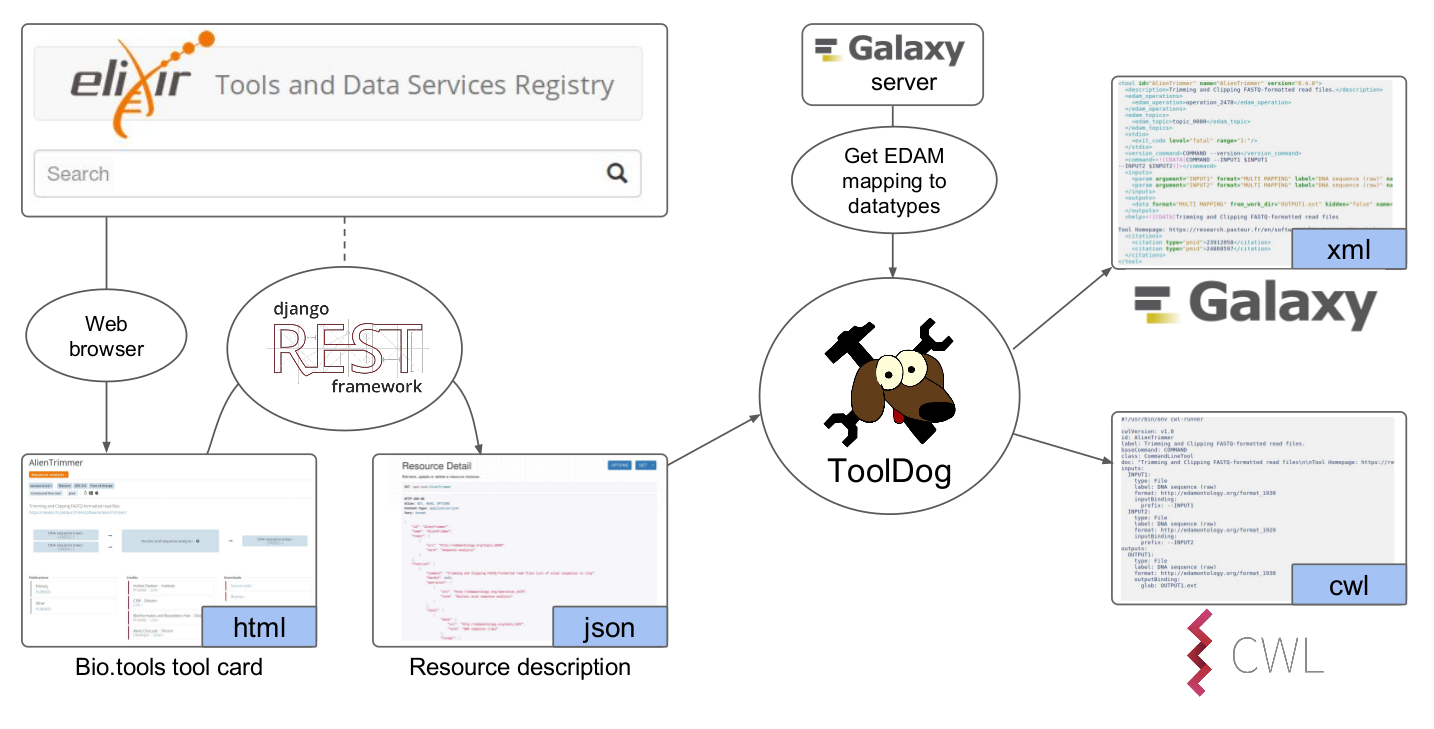
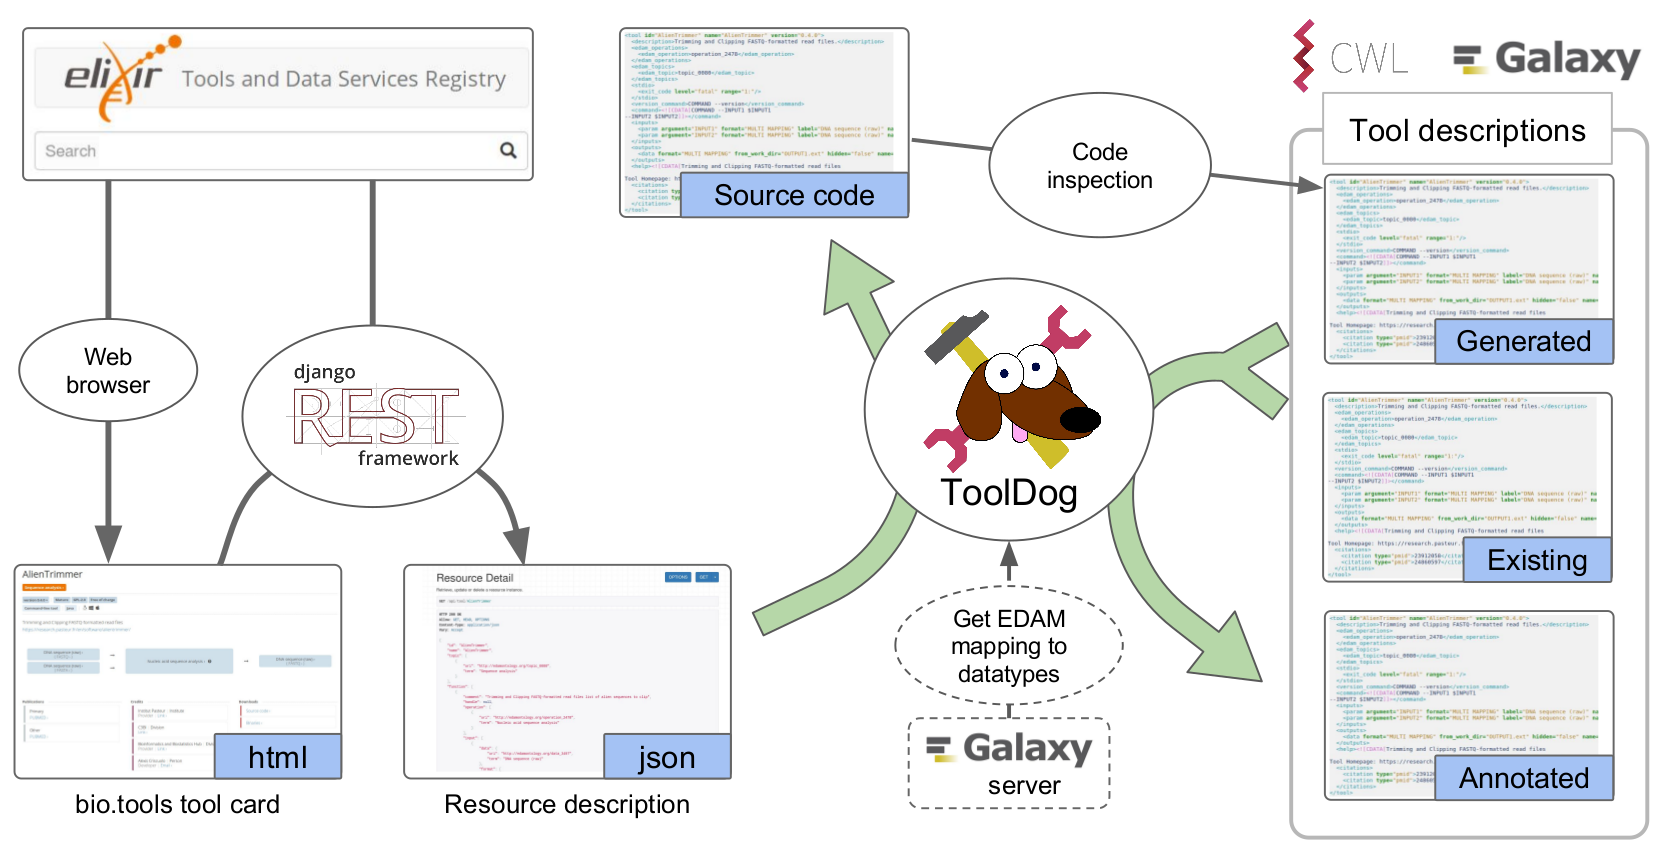
update documentation

Changed region(s): [[0.0, 0.0302, 1.0, 0.9959], [0.3068, 0.0302, 0.3375, 0.0604], [0.0, 0.0302, 0.0307, 0.0604]]

diff --git a/doc/source/how_to_use.rst b/doc/source/how_to_use.rst
@@ -8,7 +8,9 @@ How to use ToolDog ?
 
 ToolDog can either generates a template from a bio.tools entry for Galaxy or CWL but
 also annotates exiting tool descriptors with missing metadata.
-ToolDog supports generation of XML files for Galaxy (`-g/--galaxy`) or CWL (`-c/--cwl`).
+ToolDog supports generation of XML files for Galaxy (`-g/--galaxy`) or CWL tool (`-c/--cwl`).
+It works in two main steps: **(1)** Analysis of the source code when possible (for the moment, only
+support Python code using argparse), **(2)** Addition of metadata to the tool description.
 
 .. Note::
    If you find a bug, have any questions or suggestions, please `create an issue`_ on
@@ -22,22 +24,23 @@ ToolDog supports generation of XML files for Galaxy (`-g/--galaxy`) or CWL (`-c/
 Import from https://bio.tools entry
 ===================================
 
-You can generate a XML for Galaxy from an online bio.tools description using the following command:
+You can generate a XML for Galaxy from an online https://bio.tools description from the identifier
+using the following command:
 
 .. code-block:: bash
 
-    tooldog --galaxy id/version > outfile.xml
+    tooldog -g/--galaxy id > outfile.xml
 
 .. _local_import:
 
 Import from JSON local file
 ===========================
 
-To generate XML from a local file, use the following command:
+To generate XML from a local file downloaded from http://bio.tools, use the following command:
 
 .. code-block:: bash
 
-    tooldog --galaxy file.json > outfile.xml
+    tooldog -g/--galaxy file.json > outfile.xml
 
 
 Annotation of existing files
@@ -48,7 +51,46 @@ is registered on https://bio.tools:
 
 .. code-block:: bash
 
-    tooldog --galaxy id/version --existing_xml your_xml.xml > annotated_xml.xml
+    tooldog -g/--galaxy id --existing_desc your_xml.xml > annotated_xml.xml
 
 .. Note::
     For the moment, only annotation of Galaxy XML is supported.
+
+Advanced options
+================
+
+Please refer to the help section (``tooldog -h``) of ToolDog to see the full list of options.
+
+Run parts independently
+-----------------------
+
+You can decide to run both parts of ToolDog in an independant manner using ``tooldog -g id --analyse``
+and ``tooldog -g id --annotate`` options. 
+
+Use your own settings and local files
+-------------------------------------
+
+ToolDog offers the possibility to use your own settings for most of the step of the generation.
+
+Options for source code analysis
+""""""""""""""""""""""""""""""""
+
+- ``--source_language``: specify the language of your source code.
+- ``--source_code``: specify the path to your source code directory.
+
+.. Warning::
+    For the moment, only analysis of Python code is available
+
+Options for tool description annotation
+"""""""""""""""""""""""""""""""""""""""
+
+- ``--inout_biotools``: select this option to also add inputs and outputs found on the https://bio.tools description to your Galaxy XML or CWL tool description.
+
+Options specific to Galaxy XML generation
+"""""""""""""""""""""""""""""""""""""""""
+
+The options below are used for the mapping between EDAM formats and data to Galaxy datatypes. As some Galaxy instances sometimes have their own defined datatypes, you can here specify the url:
+
+- ``--galaxy_url``: URL of the Galaxy instance (default is https://usegalaxy.org)
+- ``--edam_url``: URL or local path to EDAM.owl (default is http://edamontology.org/EDAM.owl)
+- ``--mapping_file``: this is a JSON file generated by ToolDog that you can keep once you have performed your own mapping.

diff --git a/doc/source/references.rst b/doc/source/references.rst
@@ -6,6 +6,29 @@
 References
 **********
 
-* Hervé Ménager, Matúš Kalaš, Kristoffer Rapacki and Jon Ison. Using registries to integrate bioinformatics tools and services into workbench environments. International Journal on Software Tools for Technology Transfer (2016) doi: `10.1007/s10009-015-0392-z`_
+Articles
+========
+
+- Hervé Ménager, Matúš Kalaš, Kristoffer Rapacki and Jon Ison. Using registries to integrate bioinformatics tools and services into workbench environments. International Journal on Software Tools for Technology Transfer (2016) doi: `10.1007/s10009-015-0392-z`_
 
 .. _10.1007/s10009-015-0392-z: http://link.springer.com/article/10.1007/s10009-015-0392-z
+
+Posters and presentations
+=========================
+
+- Hillion KH, Kuzmin I, Peterson H et al. ToolDog – generating tool descriptors from the ELIXIR tool registry [version 1; not peer reviewed]. F1000Research 2017, 6(ISCB Comm J):1194 (**slides**) doi: `10.7490/f1000research.1114473.1`_
+- Hillion KH, Kuzmin I, Peterson H et al. ToolDog – generating tool descriptors from the ELIXIR tool registry [version 1; not peer reviewed]. F1000Research 2017, 6(ISCB Comm J):1193 (**poster**) doi: `10.7490/f1000research.1114472.1`_
+
+.. _10.7490/f1000research.1114473.1: https://f1000research.com/slides/6-1194
+.. _10.7490/f1000research.1114472.1: https://f1000research.com/posters/6-1193
+
+External libraries repositories
+===============================
+
+- `galaxyxml`_ by Eric Rasche
+- `argparse2tool`_ by Eric Rasche and Anton Khodak
+- `python-cwlgen`_ by Hervé Ménager and Kenzo-Hugo Hillion
+
+.. _galaxyxml: https://github.com/erasche/galaxyxml
+.. _argparse2tool: http://github.com/erasche/argparse2tool
+.. _python-cwlgen: http://github.com/common-workflow-language/python-cwlgen

diff --git a/doc/source/installation.rst b/doc/source/installation.rst
@@ -9,12 +9,13 @@ Installation
 Requirements
 ============
 
-ToolDog is built with Python 3.6.0 and uses the following libraries:
+ToolDog is built with Python 3.6.0 and uses the following Python libraries:
 
-- galaxyxml_ (>=0.4.0)
-- cwlgen_ (>=0.1.0)
+- galaxyxml_ (>=0.4.3)
+- cwlgen_ (>=0.2.2)
 - requests (>=2.13.0)
 - rdflib (>=4.2.2)
+- docker (==0.2.1)
 
 .. _galaxyxml: https://github.com/erasche/galaxyxml
 .. _cwlgen: https://github.com/common-workflow-language/python-cwlgen
@@ -36,7 +37,7 @@ Installation procedure
 Pip
 ---
 
-You can use pip to install ToolDog:
+You can use pip to install ToolDog of the latest stable version:
 
 .. code-block:: bash
 
@@ -44,6 +45,10 @@ You can use pip to install ToolDog:
 
 Manually
 --------
+
+.. Note::
+    This is particularly useful when you wish to install a version under development from
+    any branches of the Github repository.
 
 Clone the repository and install ToolDog with the following commands:
 

diff --git a/doc/source/changelog.rst b/doc/source/changelog.rst
@@ -11,6 +11,17 @@ Summary of developments of ToolDog software.
 v0.3
 ====
 
+v0.3.1
+------
+
+* DOI are not fetched when only PMID or PMCID is given on bio.tools through this `API`_
+* Addition of ``--inout_biotools`` to also write inputs and outputs from https://bio.tools in the tool description
+* Namespaces have been added to cwlgen library so more information can be written in the CWL tool description
+* Better errors and warnings handling for code analysis part
+* ToolDog is not asking for ``id/version`` anymore but only ``id`` instead
+
+.. _API: https://www.ncbi.nlm.nih.gov/pmc/utils/idconv/v1.0/
+
 v0.3.0
 ------
 

diff --git a/doc/source/introduction.rst b/doc/source/introduction.rst
@@ -9,7 +9,7 @@ Introduction
 During the last years, integration of various tools has been eased by the use of workbench
 systems such as Galaxy or frameworks using Common Workflow Language.
 Still, it remains time consuming and not straightforward to adapt resources to such
-environments. ToolDog (Tool DescriptiOn Generator) is the main component of the Workbench
+environments. **ToolDog** (Tool DescriptiOn Generator) is the main component of the Workbench
 Integration Enabler service of the ELIXIR bio.tools registry, that guides the integration
 of tools into workbench environments.
 
